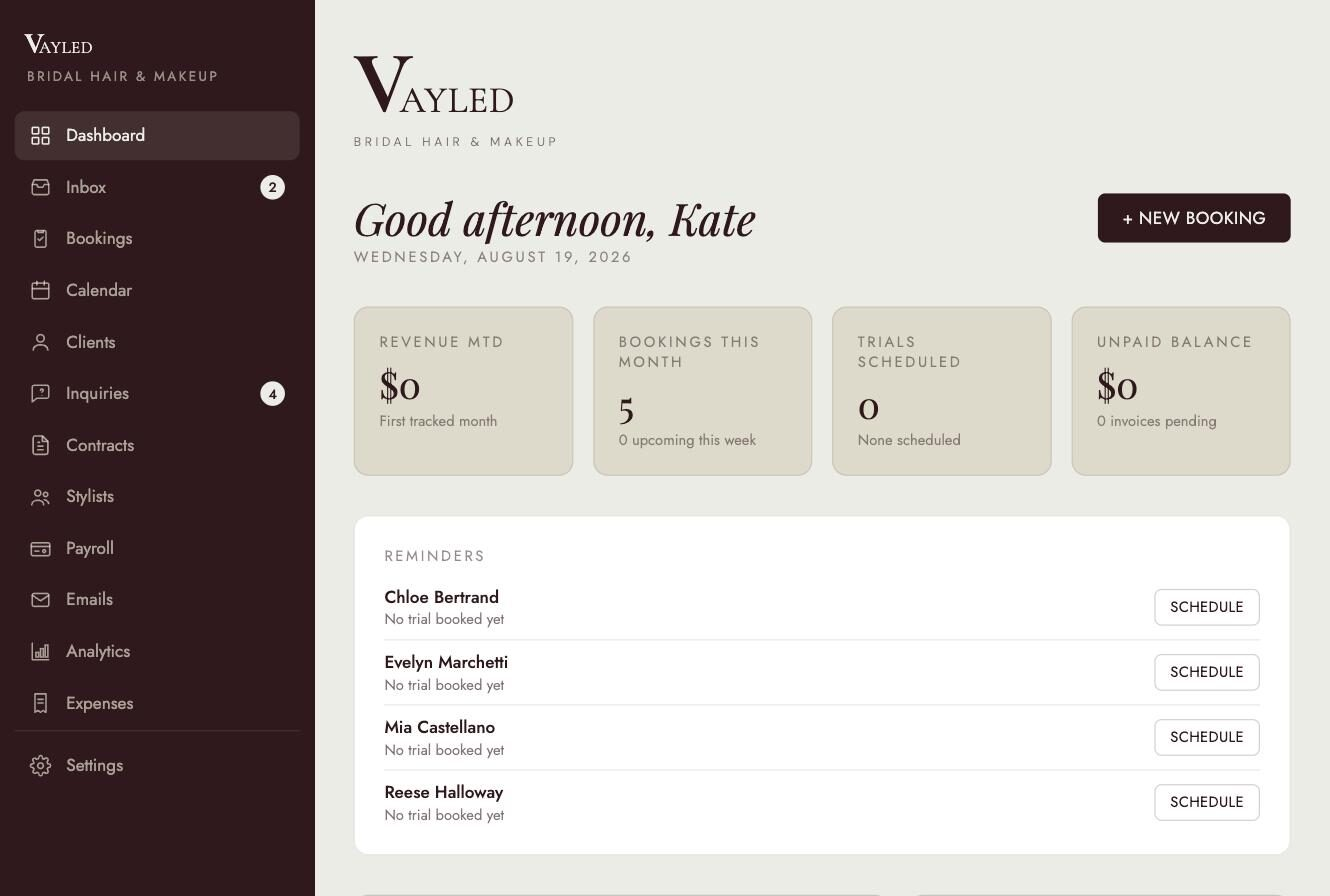
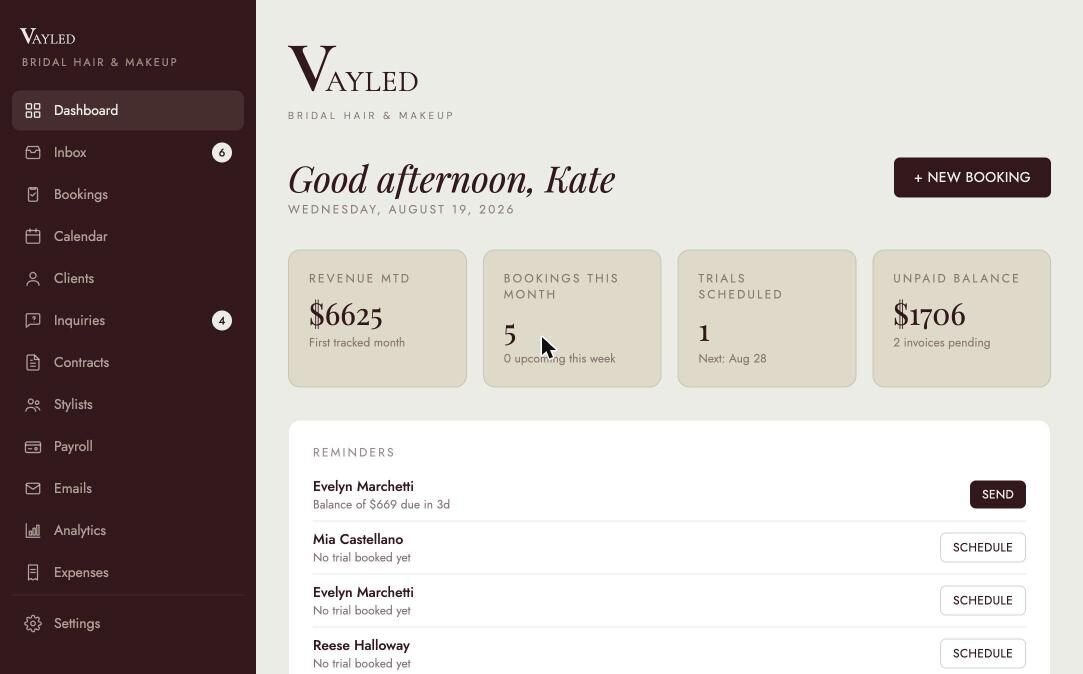
Replace dashboard screenshot with realistic financial numbers

diff --git a/CHANGELOG.md b/CHANGELOG.md
@@ -2,6 +2,10 @@
 
 Running log of changes requested while testing the app. Newest first.
 
+## 2026-08-19 (31)
+
+- **Replaced dashboard marketing screenshot** with the current live view now that test data has real dollar figures (revenue MTD, unpaid balance, reminders), instead of the earlier $0 placeholder state.
+
 ## 2026-08-19 (30)
 
 - **Added trial self-scheduling as a highlighted feature** on both the homepage and the /features page, with a new screenshot of the "Offer times to pick from" picker. Copy focuses on skipping the back-and-forth texting to land on a trial date.
